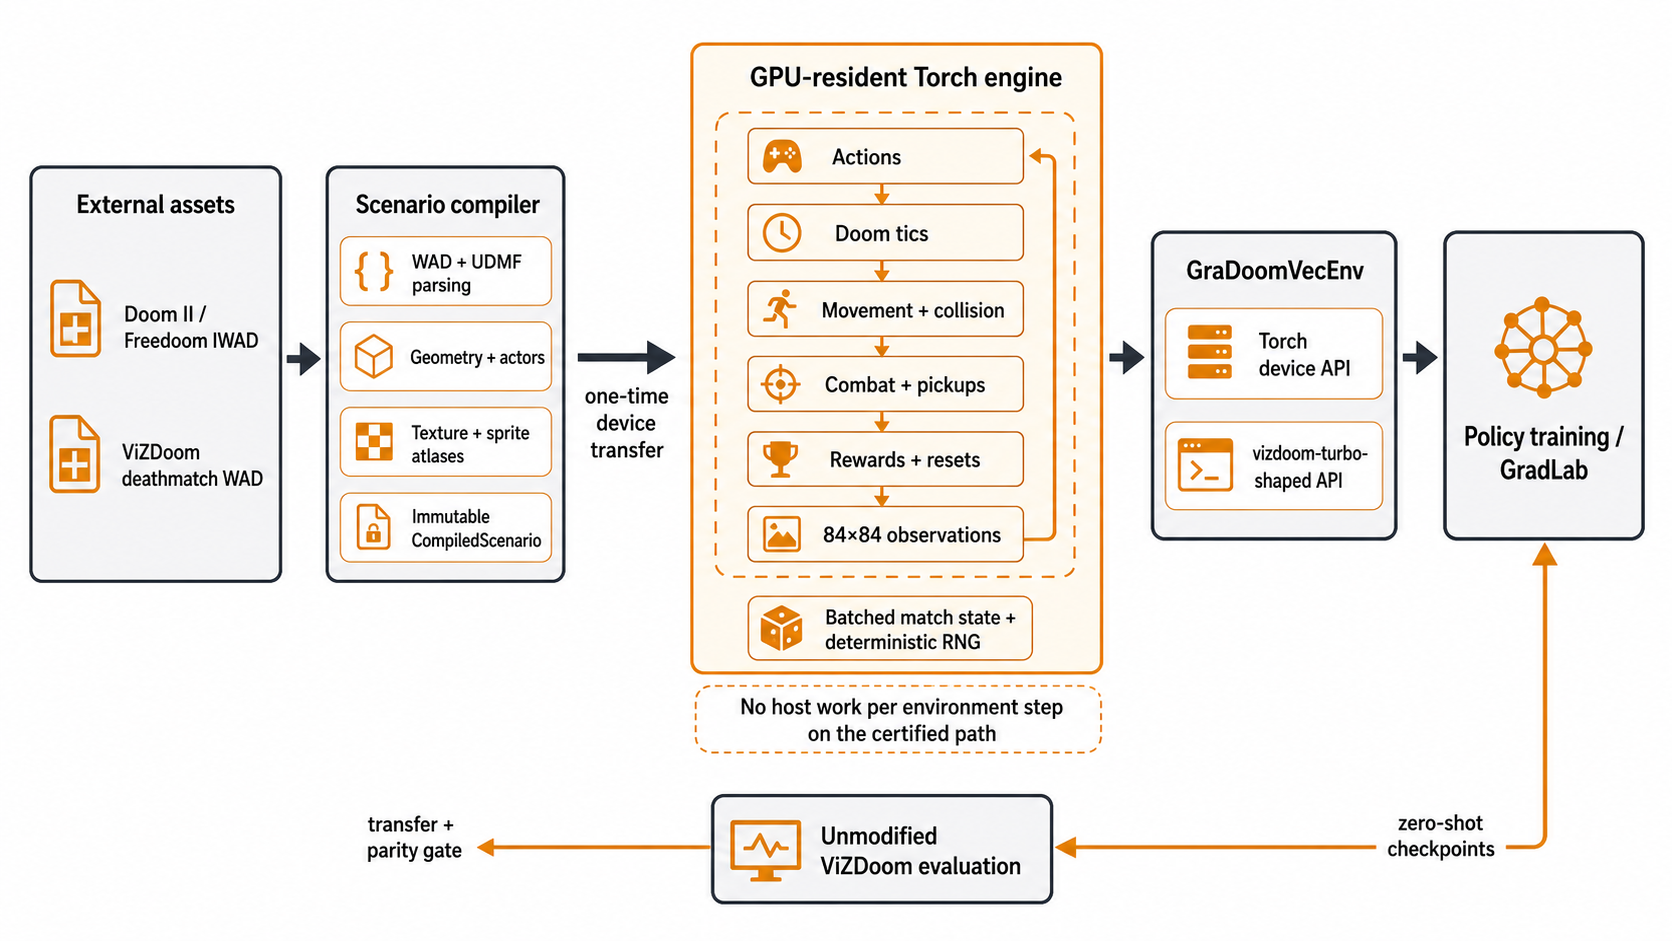
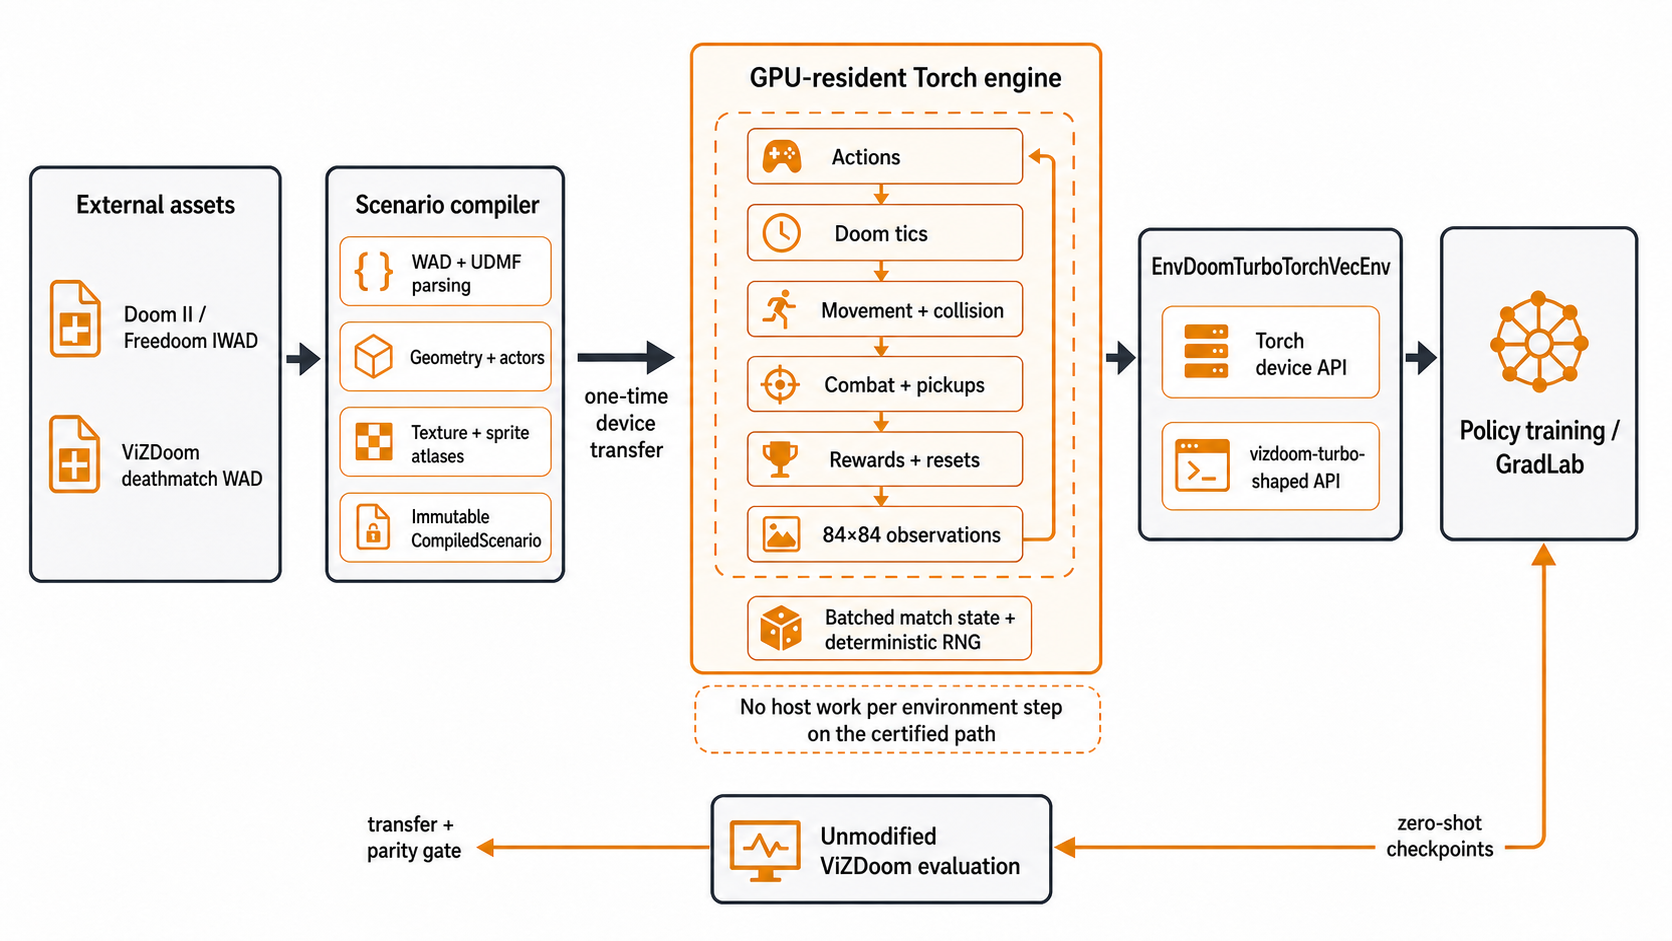
Document certification criteria and project guidance

diff --git a/SPECS.md b/SPECS.md
@@ -1,34 +1,44 @@
 ## PROJECT PURPOSE
 
-`env-Doom-turbo-torch` is a Torch-native Doom reinforcement-learning environment whose primary outcome is the lowest reproducible wall-clock time required to train policies that perform zero-shot in comparable reference ViZDoom environments.
+`env-Doom-turbo-torch` is a Torch-native Doom reinforcement-learning environment and integrated training system built primarily for its creator to produce the strongest reproducible cold-start policies, measured by player-attributed kills, whose unchanged behavior transfers zero-shot to `env-ViZDoom-turbo`; it should also be independently reproducible and useful to expert practitioners. Among policies with practically equivalent quality, it minimizes reusable-run wall-clock training time and then raw simulated Doom tics.
 
 ## PROJECT REQUIREMENTS
 
-### Performance
+### Objective and performance
 
-- `env-Doom-turbo-torch` must pursue the fastest reproducibly benchmarked Doom training throughput in the world, with time-to-reference-target as its primary performance metric.
+- Certified results must begin with freshly initialized policy and optimizer state; pretrained, adapted, fine-tuned, and warm-start results belong to separate evidence lanes.
+- Certification must prioritize zero-shot transfer eligibility, systematic `player_kills`, reusable-run wall-clock training time among practically equivalent policies, and raw simulated Doom tics in that order.
+- End-to-end co-designed training results and fixed-stack environment comparisons must remain distinct evidence lanes.
 - Simulation, observations, actions, rewards, resets, rollouts, policy inference, and learning must remain GPU-resident during steady-state training.
-- The initial certified hardware target is one NVIDIA RTX 4090 integrated with GradLab.
+- The initial certified hardware target is one NVIDIA RTX 4090 integrated with GradLab, while the design must remain structurally portable to other CUDA-capable NVIDIA GPUs without slowing the certified path.
+- Seed-independent setup artifacts may be excluded from reusable-run timing only when they contain no learned or run-specific state, remain unchanged across cold-start runs, and have their contents and creation costs disclosed.
 - Generality and future features must not impose material overhead on certified fast paths.
-- Any public fastest claim must use current, reproducible, workload-equivalent benchmark evidence.
+- `env-Doom-turbo-torch` must pursue world-leading reproducible performance without presenting comparative or superlative claims as achieved unless current workload-equivalent evidence supports them.
+- Final certification must use five predeclared cold-start seeds, report every outcome without replacement, and require at least four policies to satisfy transfer acceptance.
+- Public comparative evidence must disclose the code, assets, hardware, software, recipes, seeds, timing boundaries, learning outcomes, selected checkpoints, sample counts, statistical analysis, and failures needed for independent reproduction.
 
 ### Transfer and parity
 
-- `env-Doom-turbo-torch` must preserve Doom gameplay mechanics sufficiently for policies trained in it to remain performant without fine-tuning in comparable ViZDoom environments.
-- Deterministic gameplay mechanics must match the reference environment unless an explicitly documented deviation passes transfer acceptance.
+- Transfer acceptance must compare each unchanged frozen Doom-Torch-trained policy under stochastic sampling in `env-Doom-turbo-torch` and `env-ViZDoom-turbo`, without fine-tuning or environment-specific policy-facing compensation.
+- Transfer acceptance must require statistical equivalence of `player_kills` within a predeclared practical tolerance while treating other behavior signals as regression guardrails.
+- Transfer acceptance must not depend on matching a separately ViZDoom-trained policy.
+- Deterministic gameplay mechanics must match the reference environment unless an explicitly documented deviation passes low-level parity and transfer acceptance.
 - Minor stochastic divergence is acceptable when its distributions remain compatible and it does not materially harm policy transfer.
 - Raw fidelity evaluation must precede observation preprocessing and use ViZDoom deathmatch’s 320×240 RGB24 output with the full Doom HUD.
 - Pixel-exact rendering is not required, but policy-facing observations must support reliable transfer.
+- Documented approximations may remain only when they pass low-level semantic checks and policy-transfer acceptance.
 - Domain randomization may improve resilience to bounded rendering and simulation differences but must not conceal material semantic incompatibility.
 
-### Compatibility and content
+### Community, compatibility, and content
 
+- Public releases must be open, installable, documented, and accompanied by independently reproducible benchmark recipes and evidence.
 - Use `env-Doom-turbo-torch` as the project and GitHub repository name, `env-doom-turbo-torch` as the Python distribution name, and `env_doom_turbo_torch` as the public Python import package; current project content must not use any former project name or import identifier.
 - `env-Doom-turbo-torch` must provide the supported deathmatch API exposed by `env-ViZDoom-turbo`.
 - Its Turbo-compatible reset and step data plane must accept and return Torch tensors; it must not provide a NumPy transition transport.
 - The first certified environment is the ViZDoom deathmatch scenario.
 - Certified environments must support user-supplied Doom II and Freedoom WADs.
 - Future releases must support multiple certified deathmatch WADs without slowing the initial single-scenario fast path.
+- The first certification need not cover CPU optimization, multi-GPU scaling, deterministic-policy evaluation, bidirectional transfer, pretrained-policy results, other Doom modes, multiplayer, or multiple certified WAD profiles.
 
 ### Multiplayer
 

diff --git a/README.md b/README.md
@@ -1,12 +1,12 @@
-<div align="center">
-  <img src="./logo.png" alt="env-Doom-turbo-torch" width="560" />
+<p align="center">
+  <img src="https://raw.githubusercontent.com/tsilva/env-Doom-turbo-torch/main/logo.png" alt="env-Doom-turbo-torch" width="560" />
+  <br />
+  <strong>🔥 Train Stronger Doom Policies, Faster 🔥</strong>
+</p>
 
-  **🔥 Rip and Tear Until It Is Done—at GPU speed. 🔥**
-</div>
+`env-Doom-turbo-torch` is a Python library and integrated training system for expert reinforcement-learning researchers who want to train strong Doom deathmatch policies from fresh initialization on NVIDIA GPUs. A certified result counts only when the unchanged stochastic policy transfers to `env-ViZDoom-turbo`; certification ranks policy quality by systematic player-attributed kills, with reusable-run wall-clock time and raw simulated Doom tics breaking close ties.
 
-`env-Doom-turbo-torch` is a Python library for reinforcement-learning researchers and engineers who need to train Doom policies at high throughput. It runs batched deathmatch simulation, rendering, rewards, and resets in PyTorch on the same device as the learner, then targets zero-shot evaluation in comparable ViZDoom environments. The distribution retains the public `env_doom_turbo_torch` import package and Gymnasium IDs.
-
-Use `EnvDoomTurboTorchVecEnv` with an operator-supplied Doom II or Freedoom IWAD and the pinned ViZDoom deathmatch scenario. The current alpha implements Turbo Vector API v2 with Torch-only transition tensors, alongside a synchronization-free device API, scenario compiler, and vectorized Torch execution model.
+Its batched simulation, rendering, rewards, resets, rollouts, policy inference, and learning remain in Torch on the GPU during steady-state training. Use `EnvDoomTurboTorchVecEnv` with an operator-supplied Doom II or Freedoom IWAD and the pinned ViZDoom deathmatch scenario.
 
 ## Install
 
@@ -74,23 +74,26 @@ uv run python -m env_doom_turbo_torch.inspect_scenario \
 uv run python play.py --scenario /path/to/deathmatch.wad \
   --iwad /path/to/doom2.wad                              # play with keyboard controls
 uv run python tools/cuda_correctness_smoke.py --compile-engine   # check CUDA residency
-python train.py --iwad /path/to/doom2.wad \
+uv run python train.py --iwad /path/to/doom2.wad \
   --scenario /path/to/deathmatch.wad                    # standalone 256x16 PPO
-python train.py --iwad /path/to/doom2.wad \
+uv run python train.py --iwad /path/to/doom2.wad \
   --scenario /path/to/deathmatch.wad --wandb            # log to GradLab's W&B project
-python train.py --initialize-from /path/to/policy.pt \
-  --iwad /path/to/doom2.wad --scenario /path/to/deathmatch.wad  # weights-only start
-python tools/convert_gradlab_checkpoint.py \
+uv run python train.py --initialize-from /path/to/policy.pt \
+  --iwad /path/to/doom2.wad --scenario /path/to/deathmatch.wad  # warm-start lane only
+uv run python tools/convert_gradlab_checkpoint.py \
   --source /path/to/published/model.zip \
   --output /path/to/standalone-policy.pt                # no GradLab/SB3 imports
-python tools/evaluate_vizdoom_checkpoint.py \
+uv run python tools/evaluate_vizdoom_checkpoint.py \
   --checkpoint /path/to/policy.pt --iwad /path/to/doom2.wad \
   --scenario-config /path/to/deathmatch.cfg                      # zero-shot transfer gate
 ```
 
 ## Notes
 
-- `env-Doom-turbo-torch` is under active construction and is not yet parity-certified. No current release supports a public fastest-training claim.
+- `env-Doom-turbo-torch` is under active construction and is not yet parity-certified. No current release supports a public quality- or speed-leadership claim.
+- Certification ranks results in this order: zero-shot transfer eligibility, systematic `player_kills`, reusable-run wall-clock time among practically equivalent policies, then raw simulated Doom tics.
+- Certified results start from freshly initialized policy and optimizer state. Pretrained, adapted, fine-tuned, and warm-start runs are reported separately.
+- Final certification uses five predeclared cold-start seeds, reports every outcome without replacement, and requires at least four unchanged stochastic policies to transfer equivalently to `env-ViZDoom-turbo`.
 - The first certification candidate is single-player `deathmatch-p1-v1`: 17 actions, frame skip 2, and 84×84 grayscale CHW observations with four-frame stacking.
 - `render()` and `render_lane()` expose the unprocessed 320×240 RGB24 comparison view with the full Doom HUD; observation preprocessing remains separate from this diagnostic render path.
 - The initial certification hardware target is one NVIDIA RTX 4090 integrated with GradLab.
@@ -102,7 +105,7 @@ python tools/evaluate_vizdoom_checkpoint.py \
 
 ## Architecture
 
-![env-Doom-turbo-torch architecture](./architecture.png)
+![env-Doom-turbo-torch architecture](https://raw.githubusercontent.com/tsilva/env-Doom-turbo-torch/main/architecture.png)
 
 ## License
 

diff --git a/AGENTS.md b/AGENTS.md
@@ -7,3 +7,17 @@ Before every task in this repository, use the `$specs-author` skill to read the 
 - If the task, repository, or user request contradicts, omits, or ambiguously interprets the specification, tell the user. Continue safe exploration and work that does not depend on resolving the issue, but never silently choose an interpretation.
 - Never edit `SPECS.md` from inference. Propose the exact change, explain why it reflects stakeholder intent, and edit the file only after the user explicitly approves that exact change.
 - Keep `SPECS.md` complete, concise, and compacted. It must contain stakeholder intent rather than implementation, architecture, operations, or transient project detail.
+
+## Agent skills
+
+### Issue tracker
+
+Issues and specs are tracked in GitHub Issues for `tsilva/env-Doom-turbo-torch`. See `docs/agents/issue-tracker.md`.
+
+### Triage labels
+
+Use the canonical `needs-triage`, `needs-info`, `ready-for-agent`, `ready-for-human`, and `wontfix` labels. See `docs/agents/triage-labels.md`.
+
+### Domain docs
+
+Use a single-context layout with `CONTEXT.md` at the repository root and system-wide ADRs under `docs/adr/`. See `docs/agents/domain.md`.

diff --git a/docs/agents/domain.md b/docs/agents/domain.md
@@ -1,0 +1,30 @@
+# Domain Docs
+
+Engineering skills must consume this repository’s domain documentation before exploring or proposing changes.
+
+## Before exploring
+
+Read:
+
+- `CONTEXT.md` at the repository root, when present.
+- Relevant system-wide ADRs under `docs/adr/`, when present.
+
+If these files do not exist, proceed silently. Domain-modeling workflows create them when durable terminology or decisions emerge.
+
+## Layout
+
+This is a single-context repository:
+
+- `CONTEXT.md` contains the project glossary and domain model.
+- `docs/adr/` contains system-wide architectural decisions.
+- `src/` contains the implementation.
+
+## Vocabulary
+
+Use terms exactly as defined in `CONTEXT.md` in issues, specifications, hypotheses, tests, and implementation discussions. Avoid synonyms that the glossary explicitly rejects.
+
+If a required concept is absent, reconsider whether new terminology is necessary or flag the gap for domain modeling.
+
+## ADR conflicts
+
+Surface any conflict with an existing ADR explicitly rather than silently overriding it.

diff --git a/docs/agents/issue-tracker.md b/docs/agents/issue-tracker.md
@@ -1,0 +1,23 @@
+# Issue tracker: GitHub
+
+Issues and specs for this repository live as GitHub issues in `tsilva/env-Doom-turbo-torch`. Use the `gh` CLI for all operations.
+
+## Conventions
+
+- Create an issue with `gh issue create --title "..." --body "..."`.
+- Read an issue with `gh issue view <number> --comments`.
+- List issues with `gh issue list`, using appropriate state and label filters.
+- Comment with `gh issue comment <number> --body "..."`.
+- Apply or remove labels with `gh issue edit <number> --add-label "..."` or `--remove-label "..."`.
+- Close an issue with `gh issue close <number> --comment "..."`.
+- Infer the repository from the configured Git remote.
+
+## Pull requests as a triage surface
+
+**PRs as a request surface: no.**
+
+## Skill routing
+
+- When a skill says “publish to the issue tracker,” create a GitHub issue.
+- When a skill says “fetch the relevant ticket,” run `gh issue view <number> --comments`.
+- Resolve a bare issue or pull-request number by trying `gh pr view <number>` and then `gh issue view <number>`.

diff --git a/docs/agents/triage-labels.md b/docs/agents/triage-labels.md
@@ -1,0 +1,13 @@
+# Triage Labels
+
+The engineering skills use five canonical triage roles. This table maps each role to its GitHub label.
+
+| Canonical role | GitHub label | Meaning |
+| --- | --- | --- |
+| `needs-triage` | `needs-triage` | Maintainer needs to evaluate this issue |
+| `needs-info` | `needs-info` | Waiting for more information |
+| `ready-for-agent` | `ready-for-agent` | Fully specified and ready for an agent |
+| `ready-for-human` | `ready-for-human` | Requires human implementation |
+| `wontfix` | `wontfix` | Will not be actioned |
+
+When a skill mentions a triage role, use the corresponding GitHub label from this table.
